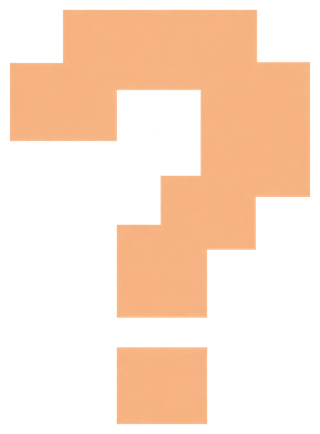
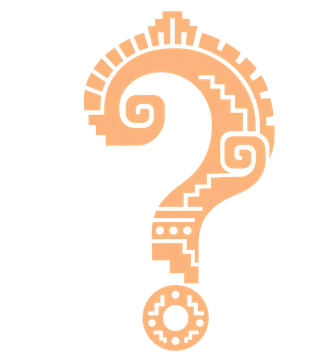
feat: publicar versión 0.1.4 con mejoras de navegación y recursos visuales

diff --git a/src/styles/professional-pass.css b/src/styles/professional-pass.css
@@ -1,0 +1,184 @@
+/* A quieter product pass: preserve the instrument-panel identity while giving
+   the problem, the question and the next action more room. */
+
+:where(.page-heading) {
+  margin-bottom: clamp(2rem, 4vw, 3rem);
+}
+
+:where(.page-heading h1) {
+  max-width: 20ch;
+}
+
+:where(.page-heading .lead) {
+  max-width: 62ch;
+  margin-top: 1.1rem;
+}
+
+:where(.section-heading__eyebrow),
+:where(.family-heading-index) {
+  text-transform: none;
+  letter-spacing: 0.04em;
+}
+
+button:disabled {
+  cursor: not-allowed;
+}
+
+/* Page headings share geometry; illustrations remain the page-specific voice. */
+.learning-overview-hero,
+.recall-overview-hero,
+.diagnostic-overview-hero,
+.map-overview-hero {
+  margin-bottom: clamp(2.5rem, 5vw, 4rem);
+}
+
+/* The challenge navigator reveals one family at a time. Every available item
+   remains in the document and can be reached by keyboard or touch. */
+.challenge-runner-layout .challenge-sidebar,
+.challenge-runner-layout .challenge-families {
+  overflow: visible;
+}
+
+.challenge-runner-layout .challenge-families {
+  display: grid;
+  grid-template-columns: 1fr;
+  gap: 0;
+  padding: 0;
+}
+
+.challenge-runner-layout .challenge-family {
+  border: 0;
+  border-bottom: 1px solid var(--color-line);
+  background: transparent;
+}
+
+.challenge-runner-layout .challenge-family__header {
+  min-height: 48px;
+  padding: 0.65rem var(--runner-inline-space, 1rem);
+  border-bottom: 0;
+  background: var(--color-raised);
+  cursor: pointer;
+  list-style: none;
+}
+
+.challenge-runner-layout .challenge-family__header::-webkit-details-marker {
+  display: none;
+}
+
+.challenge-runner-layout .challenge-family__header::after {
+  position: static;
+  display: grid !important;
+  width: 1.25rem;
+  max-width: none;
+  padding: 0;
+  border: 0;
+  background: transparent;
+  color: var(--color-muted);
+  content: '+';
+  font-family: var(--font-mono);
+  font-size: 0.9rem;
+  line-height: 1;
+  opacity: 1;
+  pointer-events: none;
+  transform: none;
+  transition: color 160ms;
+}
+
+.challenge-runner-layout
+  .challenge-family[open]
+  .challenge-family__header::after {
+  color: var(--color-accent);
+  content: '−';
+}
+
+.challenge-runner-layout .challenge-family__header:hover::after,
+.challenge-runner-layout .challenge-family__header:focus-visible::after {
+  color: var(--color-accent);
+}
+
+.challenge-runner-layout .challenge-family__header h3 {
+  font-size: 0.78rem;
+  letter-spacing: 0.02em;
+  text-transform: none;
+}
+
+.challenge-runner-layout .challenge-family .challenge-list__copy strong {
+  display: block;
+  overflow: hidden;
+  font-size: 0.76rem;
+  line-height: 1.3;
+  text-overflow: ellipsis;
+  white-space: nowrap;
+}
+
+.challenge-runner-layout .challenge-family .challenge-list__button {
+  min-height: 50px;
+  padding: 0.45rem var(--runner-inline-space, 1rem);
+}
+
+.challenge-runner-layout .challenge-sidebar__count,
+.challenge-runner-layout .workspace-header__progress {
+  color: var(--color-muted);
+  font-family: var(--font-mono);
+  font-size: 0.68rem;
+  letter-spacing: 0.02em;
+}
+
+/* Keep scenario descriptions readable in the catalog instead of hiding them. */
+.challenge-index-list__copy span {
+  display: block;
+  overflow: visible;
+  line-height: 1.45;
+  text-overflow: clip;
+  white-space: normal;
+}
+
+/* A labelled primary action is easier to discover than an icon-only check. */
+body.challenge-runner-layout
+  .step-panel
+  form
+  > .answer-actions
+  .answer-actions__icon-button[data-show-label='true'],
+.diagnostic-page .answer-actions__icon-button[data-show-label='true'] {
+  width: auto;
+  min-width: 0;
+  padding-inline: 1rem;
+  gap: 0.6rem;
+}
+
+.button__label {
+  white-space: nowrap;
+}
+
+.feedback-dialog {
+  border-top-width: 1px;
+}
+
+@media (min-width: 761px) and (max-width: 1200px) {
+  .home-layout .action-grid {
+    grid-template-columns: repeat(3, minmax(0, 1fr));
+  }
+}
+
+@media (max-width: 760px) {
+  .home-layout .home-focus {
+    grid-template-columns: 1fr;
+  }
+
+  .home-layout .action-grid {
+    grid-template-columns: 1fr;
+  }
+
+  .home-layout .action-card,
+  .home-layout .action-card--wide,
+  .home-layout .action-card--compact,
+  .home-layout .action-card--horizontal {
+    min-height: 116px;
+    padding-inline: 1rem;
+  }
+
+  .challenge-runner-layout .challenge-family__header,
+  .challenge-runner-layout .challenge-family .challenge-list__button {
+    padding-inline: 1rem;
+  }
+}

diff --git a/src/modules/challenges/ui/ChallengeRunnerIsland.tsx b/src/modules/challenges/ui/ChallengeRunnerIsland.tsx
@@ -114,9 +114,6 @@ export default function ChallengeRunnerIsland({
   const currentChallenge =
     challenges.find((item) => item.id === currentId) ?? challenge;
   const step = currentChallenge.steps[stepIndex];
-  const overallProgress = challenges.length
-    ? Math.round((completedIds.size / challenges.length) * 100)
-    : 0;
   const currentFamily = families.find(
     (family) => family.id === currentChallenge.familyId,
   );
@@ -273,18 +270,19 @@ export default function ChallengeRunnerIsland({
               (item) => item.familyId === family.id,
             );
             return (
-              <section
+              <details
                 className="challenge-family"
                 key={family.id}
                 aria-labelledby={`family-${family.id}`}
+                open={family.id === currentFamily?.id}
               >
-                <header className="challenge-family__header">
+                <summary className="challenge-family__header">
                   <FamilyIcon familyId={family.id} />
                   <h3 id={`family-${family.id}`}>{family.title}</h3>
                   <span className="challenge-family__count">
                     {familyChallenges.length}
                   </span>
-                </header>
+                </summary>
                 <ol className="challenge-family__list">
                   {familyChallenges.map((item) => {
                     const status = statusFor(item.id);
@@ -327,7 +325,7 @@ export default function ChallengeRunnerIsland({
                     );
                   })}
                 </ol>
-              </section>
+              </details>
             );
           })}
         </div>
@@ -396,7 +394,7 @@ export default function ChallengeRunnerIsland({
                 </p>
               </div>
               <span className="workspace-header__progress">
-                {completedIds.size} / {challenges.length} · {overallProgress}%
+                {completedIds.size} de {challenges.length} resueltas
               </span>
             </header>
             {step && (

diff --git a/src/components/react/AnimatedIconAction.tsx b/src/components/react/AnimatedIconAction.tsx
@@ -24,6 +24,7 @@ type Props = Omit<
   label: string;
   iconSize?: number;
   reducedMotionOverride?: boolean;
+  showLabel?: boolean;
 };
 
 function useIconInteraction(reducedMotionOverride: boolean) {
@@ -79,6 +80,7 @@ export const AnimatedIconButton = forwardRef<HTMLButtonElement, Props>(
       label,
       iconSize = 22,
       reducedMotionOverride = false,
+      showLabel = false,
       className,
       ...props
     },
@@ -92,6 +94,7 @@ export const AnimatedIconButton = forwardRef<HTMLButtonElement, Props>(
         ref={ref as Ref<HTMLButtonElement>}
         className={className}
         aria-label={label}
+        data-show-label={showLabel ? 'true' : undefined}
         onMouseEnter={interaction.onMouseEnter}
         onMouseLeave={interaction.onMouseLeave}
         onFocus={interaction.onFocus}
@@ -103,6 +106,7 @@ export const AnimatedIconButton = forwardRef<HTMLButtonElement, Props>(
           size={iconSize}
           reducedMotion={interaction.reducedMotion}
         />
+        {showLabel && <span className="button__label">{label}</span>}
       </button>
     );
   },

diff --git a/src/modules/diagnostic/ui/DiagnosticRunnerIsland.tsx b/src/modules/diagnostic/ui/DiagnosticRunnerIsland.tsx
@@ -13,7 +13,7 @@ import {
 } from '../../../components/react/AnimatedArrowAction';
 
 type DiagnosticStatus =
-  'Sólido' | 'Disponible' | 'En desarrollo' | 'Para explorar';
+  'Sólido' | 'Disponible' | 'En desarrollo' | 'Sin explorar';
 
 const synthesisGroups: {
   status: DiagnosticStatus;
@@ -32,7 +32,7 @@ const synthesisGroups: {
     description: 'Hay una relación para revisar con más tiempo.',
   },
   {
-    status: 'Para explorar',
+    status: 'Sin explorar',
     description: 'Todavía no apareció evidencia en estas situaciones.',
   },
 ];
@@ -42,7 +42,7 @@ function getDiagnosticStatus(
   evidences: readonly Evidence[],
 ): DiagnosticStatus {
   const related = evidences.filter((evidence) => evidence.skillId === skillId);
-  if (!related.length) return 'Para explorar';
+  if (!related.length) return 'Sin explorar';
   if (related.every((evidence) => evidence.correct)) return 'Sólido';
   if (related.some((evidence) => evidence.correct)) return 'Disponible';
   return 'En desarrollo';

diff --git a/src/modules/challenges/ui/StepPanel.tsx b/src/modules/challenges/ui/StepPanel.tsx
@@ -268,6 +268,7 @@ export default function StepPanel({
               disabled={!ready}
               icon={CircleCheckIcon}
               label="Comprobar respuesta"
+              showLabel
             />
             {mode === 'diagnostic' ? (
               <AnimatedIconButton
@@ -278,6 +279,7 @@ export default function StepPanel({
                 onClick={() => submit(undefined, true)}
                 icon={SearchIcon}
                 label="No sé todavía"
+                showLabel
               />
             ) : step.hints?.length ? (
               <AnimatedIconButton
@@ -291,6 +293,7 @@ export default function StepPanel({
                 }}
                 icon={SearchIcon}
                 label={hintVisible ? 'Ocultar pista' : 'Necesito una pista'}
+                showLabel
                 aria-controls={`hint-dialog-${step.id}`}
               />
             ) : null}

diff --git a/src/modules/progress/ui/ProgressMapIsland.tsx b/src/modules/progress/ui/ProgressMapIsland.tsx
@@ -9,7 +9,7 @@ import { getChallengeSlug } from '../../../content/challenges';
 import { AnimatedArrowLink } from '../../../components/react/AnimatedArrowAction';
 
 const masteryLabels = {
-  unexplored: 'Sin evidencia',
+  unexplored: 'Sin explorar',
   developing: 'En desarrollo',
   available: 'Disponible',
   solid: 'Sólido',

diff --git a/CHANGELOG.md b/CHANGELOG.md
@@ -8,6 +8,30 @@ SemVer.
 
 Todavía no hay cambios publicados para la próxima versión.
 
+## [0.1.4] - 2026-09-11
+
+### Interfaz y navegación
+
+- Acceso directo al catálogo completo de desafíos desde la home y las rutas
+  relacionadas.
+- Encabezados compartidos para las secciones internas, con una geometría
+  consistente entre páginas.
+- Familias de desafíos desplegables, con todos los ejercicios disponibles y
+  sin scrolls internos que oculten contenido.
+- Acciones de respuesta y pistas con etiquetas visibles para mejorar su
+  descubrimiento y uso con teclado.
+- Estados de progreso y diagnóstico unificados bajo el estado «Sin explorar».
+
+### Identidad y recursos visuales
+
+- Reemplazo de las ilustraciones del sitio por la nueva serie de imágenes del
+  producto.
+- Incorporación de la ilustración de Unidades en su página de familia.
+- Actualización del monograma, favicon y Apple Touch Icon con variantes
+  optimizadas para cada tamaño.
+- Generación de variantes responsive de 320 y 640 píxeles para las
+  ilustraciones.
+
 ## [0.1.1] - 2026-09-09
 
 ### Interfaz
@@ -50,5 +74,6 @@ Todavía no hay cambios publicados para la próxima versión.
 - Tests de dominio, aplicación, diagnóstico, catálogo y persistencia.
 - Sistema visual oscuro con fuentes locales e iconografía animada.
 
-[Unreleased]: https://github.com/muga-system/oxyda2/compare/v0.1.1...HEAD
+[Unreleased]: https://github.com/muga-system/oxyda2/compare/v0.1.4...HEAD
+[0.1.4]: https://github.com/muga-system/oxyda2/releases/tag/v0.1.4
 [0.1.0]: https://github.com/muga-system/oxyda2/releases/tag/v0.1.0

diff --git a/README.md b/README.md
@@ -7,6 +7,8 @@ conocimientos matemáticos útiles a través de situaciones cotidianas. La
 aplicación guía al usuario para reconocer una relación, estimar un resultado,
 resolver cuando hace falta, verificarlo y decidir qué significa.
 
+Versión actual: **0.1.4**.
+
 ## Qué incluye
 
 - Primera visita con un desafío guiado de comparación de descuentos.
@@ -35,6 +37,7 @@ navegador donde se utiliza.
 | `/recordar`         | Búsqueda y consulta rápida de relaciones matemáticas    |
 | `/prueba`           | Diagnóstico inicial de ocho situaciones                 |
 | `/mapa`             | Estado personal de las habilidades practicadas          |
+| `/desafio`          | Catálogo completo de situaciones para resolver          |
 | `/desafio/[slug]`   | Resolución guiada de un desafío                         |
 
 ## Stack
@@ -90,8 +93,8 @@ publicar la aplicación:
 1. Creá el subdominio en Hostinger y asignale su document root.
 2. Ejecutá `pnpm build` en este repositorio.
 3. Subí **el contenido de `dist/`** al document root del subdominio, incluidos
-   `404.html`, `favicon.svg`, `robots.txt`, las carpetas de cada ruta y
-   `_astro/`.
+   `404.html`, `favicon-16.png`, `favicon-32.png`, `apple-touch-icon.png`,
+   `robots.txt`, las carpetas de cada ruta y `_astro/`.
 4. No subas `src/`, `node_modules/` ni el repositorio completo al document root.
 
 La salida incluye `index.html` dentro de cada ruta, de modo que las páginas
